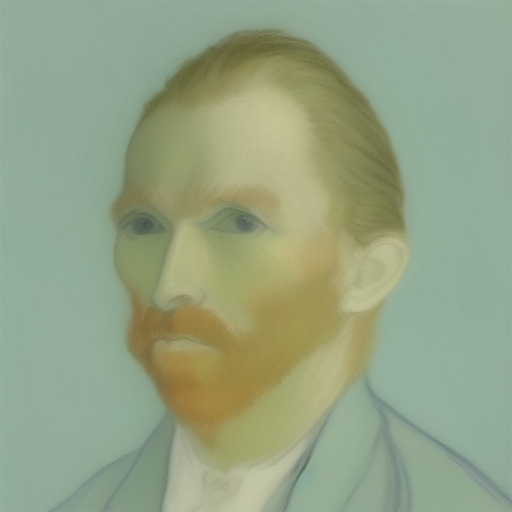
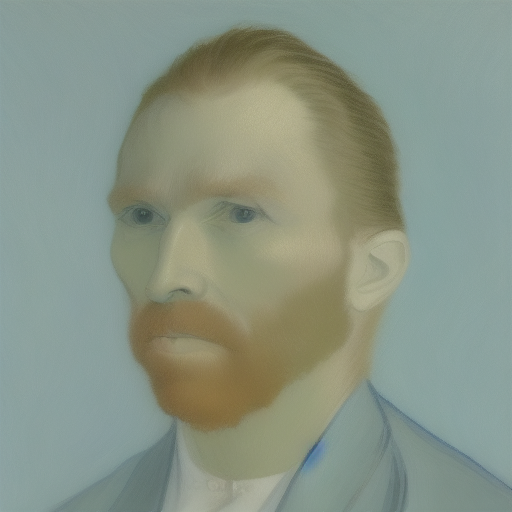
result on sdv1-5, slightly better. needs some tuning in generation.

diff --git a/main_lcm.py b/main_lcm.py
@@ -8,7 +8,7 @@ from model import DiffMorpherPipeline
 
 parser = ArgumentParser()
 parser.add_argument(
-    "--model_path", type=str, default="lykon/dreamshaper-7",
+    "--model_path", type=str, default="sd-legacy/stable-diffusion-v1-5",
     help="Pretrained model to use (default: %(default)s)"
 )
 # Available SDV1-5 versions (all have lcm-lora support): 
